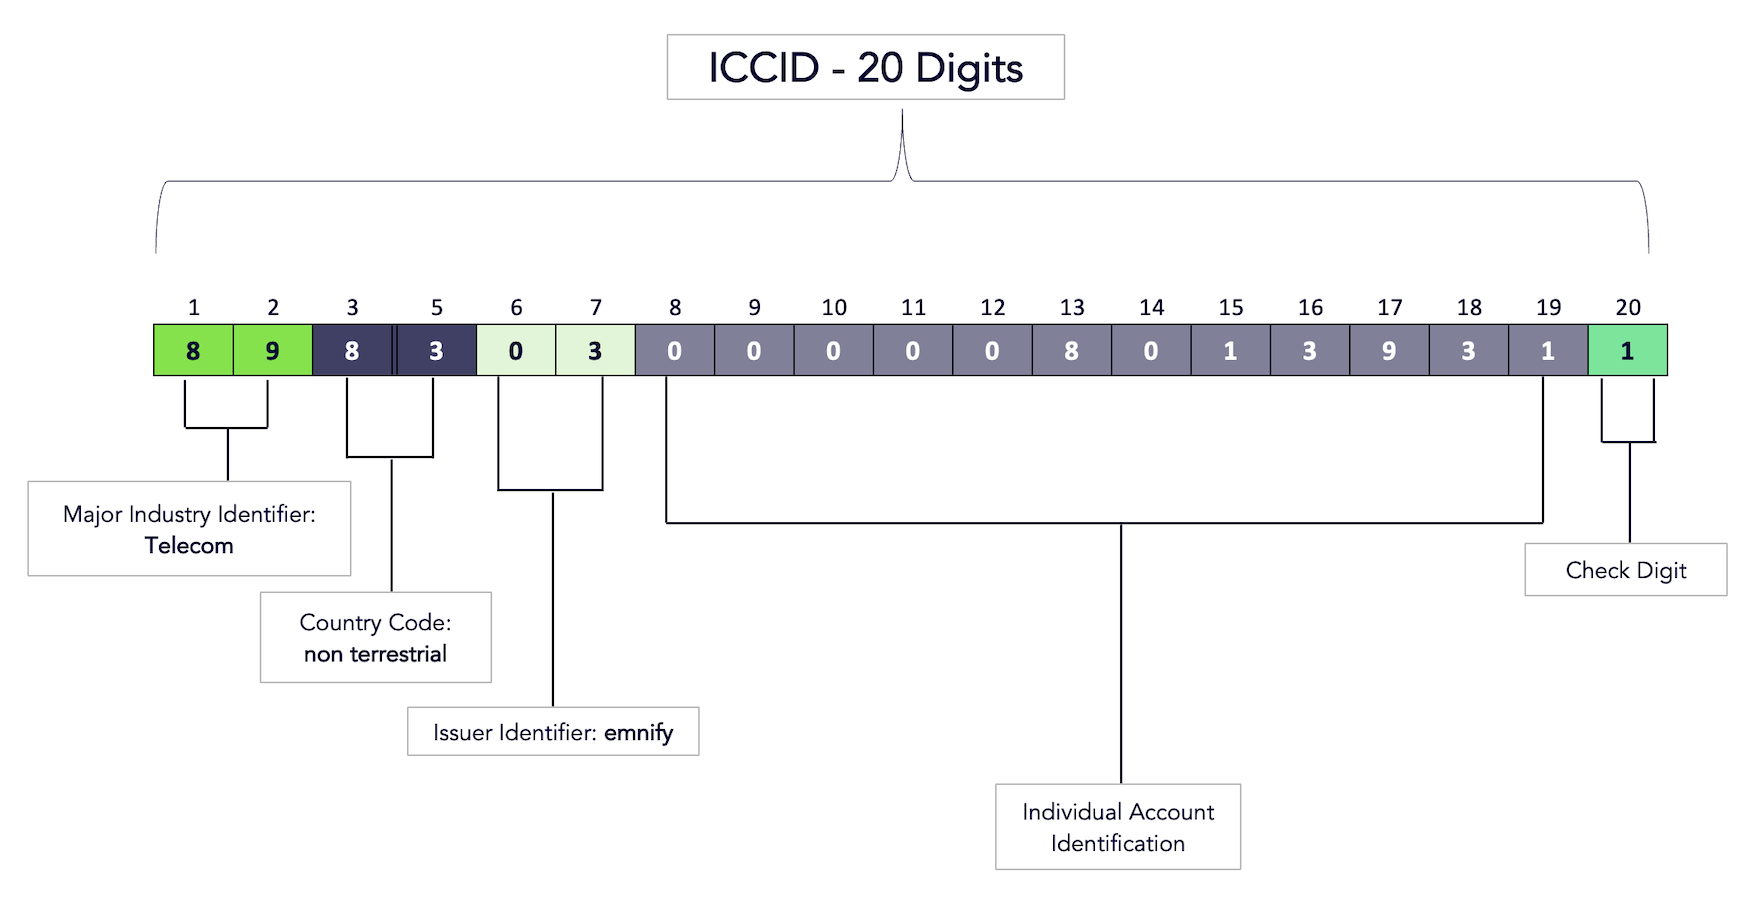
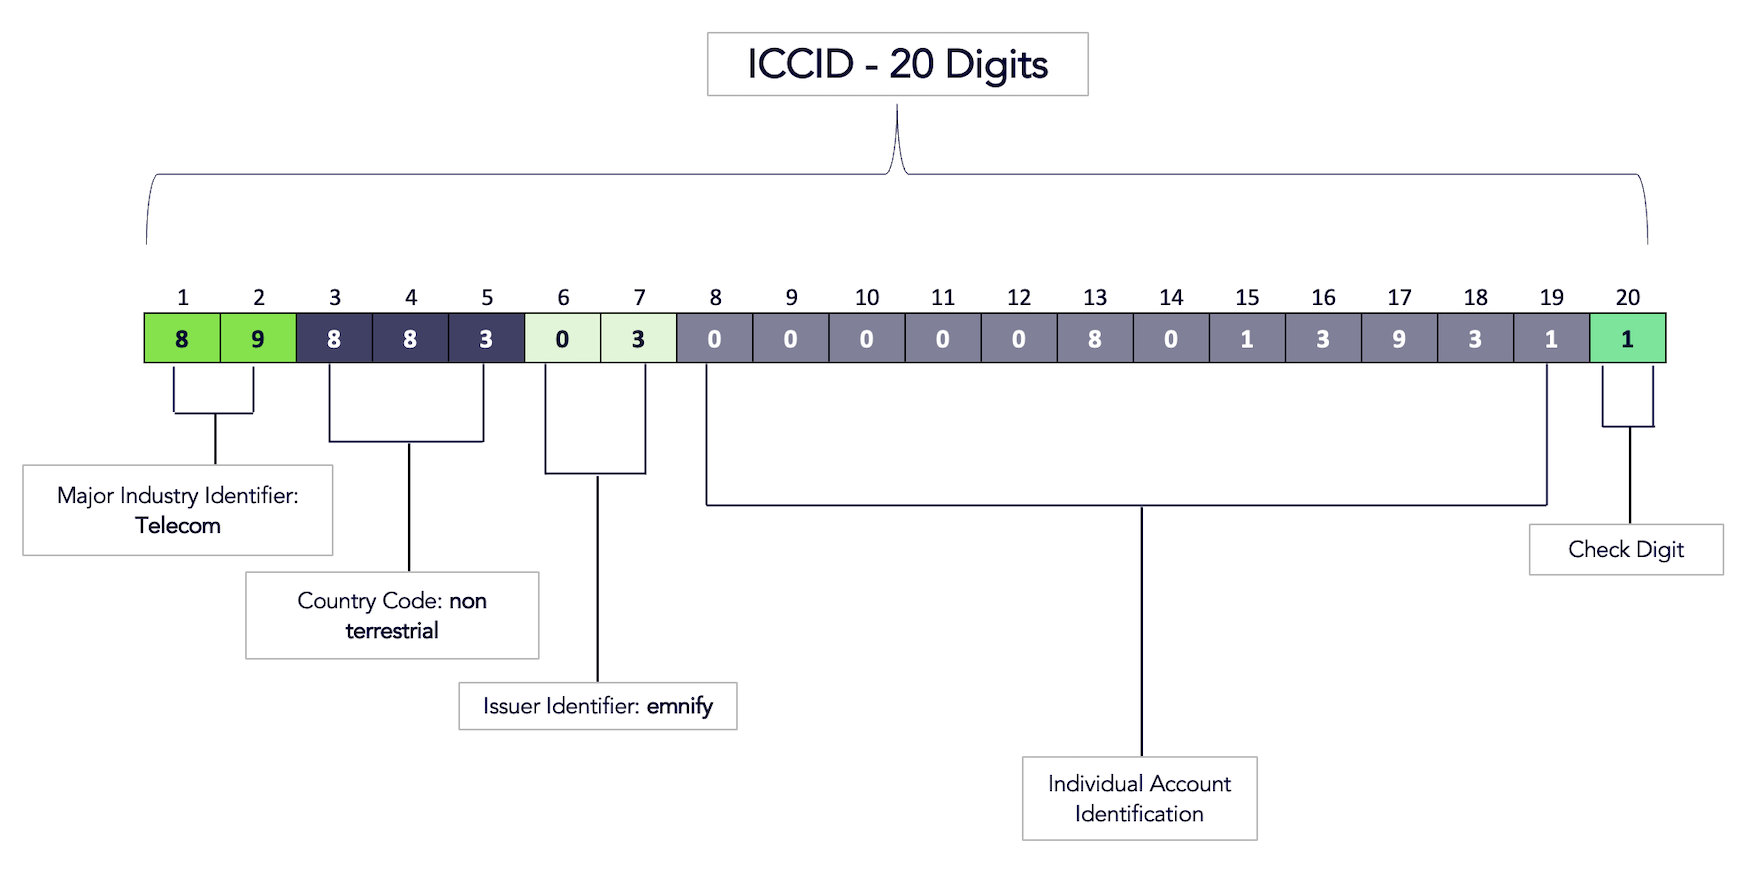
Update definitions and diagrams based on Mario's review

diff --git a/docs/glossary.md b/docs/glossary.md
@@ -122,18 +122,14 @@ Part of [GSM](#gsm---global-system-for-mobile-communications) infrastructure.
 A request method supported by the HTTP protocol, which typically includes data in the request body.
 
 ## ICCID - Integrated circuit card identifier  
-The integrated circuit card identifier (ICCID) is a 18-22 digit code used to identify a SIM card. 
+The integrated circuit card identifier (ICCID) is a 20-digit code used to identify a SIM card. 
 It includes a SIM card's country, home network, and identification number, as indicated in the following diagram:
 
-![A 20-digit ICCID number: "8983030000080139311". The first two digits are the Major Industry Identifier (Telecom in this example). The next two digits are the Country Code (non-terrestrial). The following two digits are the Issuer Identifier (emnify). After that, the next 11 digits are the Individual Account Identification. The final digit is the Check Digit.](assets/infographic-iccid-digits.png)
+![A 20-digit ICCID number: "89883030000080139311". The first two digits are the Major Industry Identifier (Telecom in this example). The next three digits are the Country Code (non-terrestrial). The following two digits are the Issuer Identifier (emnify). After that, the next 11 digits are the Individual Account Identification. The final digit is the Check Digit.](assets/infographic-iccid-digits.png)
 
 :::note
 Following the introduction of [eUICC](#euicc---embedded-universal-integrated-circuit-card) SIM cards in 2021, there are situations where the ICCID can no longer be unique. 
 For example, the ICCID value can change when a different [SIM profile](#sim-profile) is provisioned on the eSIM.
-:::
-
-:::tip Deep dive
-Learn more about the ICCID in our blog post: [What Is an ICCID Number?](https://www.emnify.com/iot-glossary/iccid-number)
 :::
 
 ## IMEI - International mobile equipment identification number  
